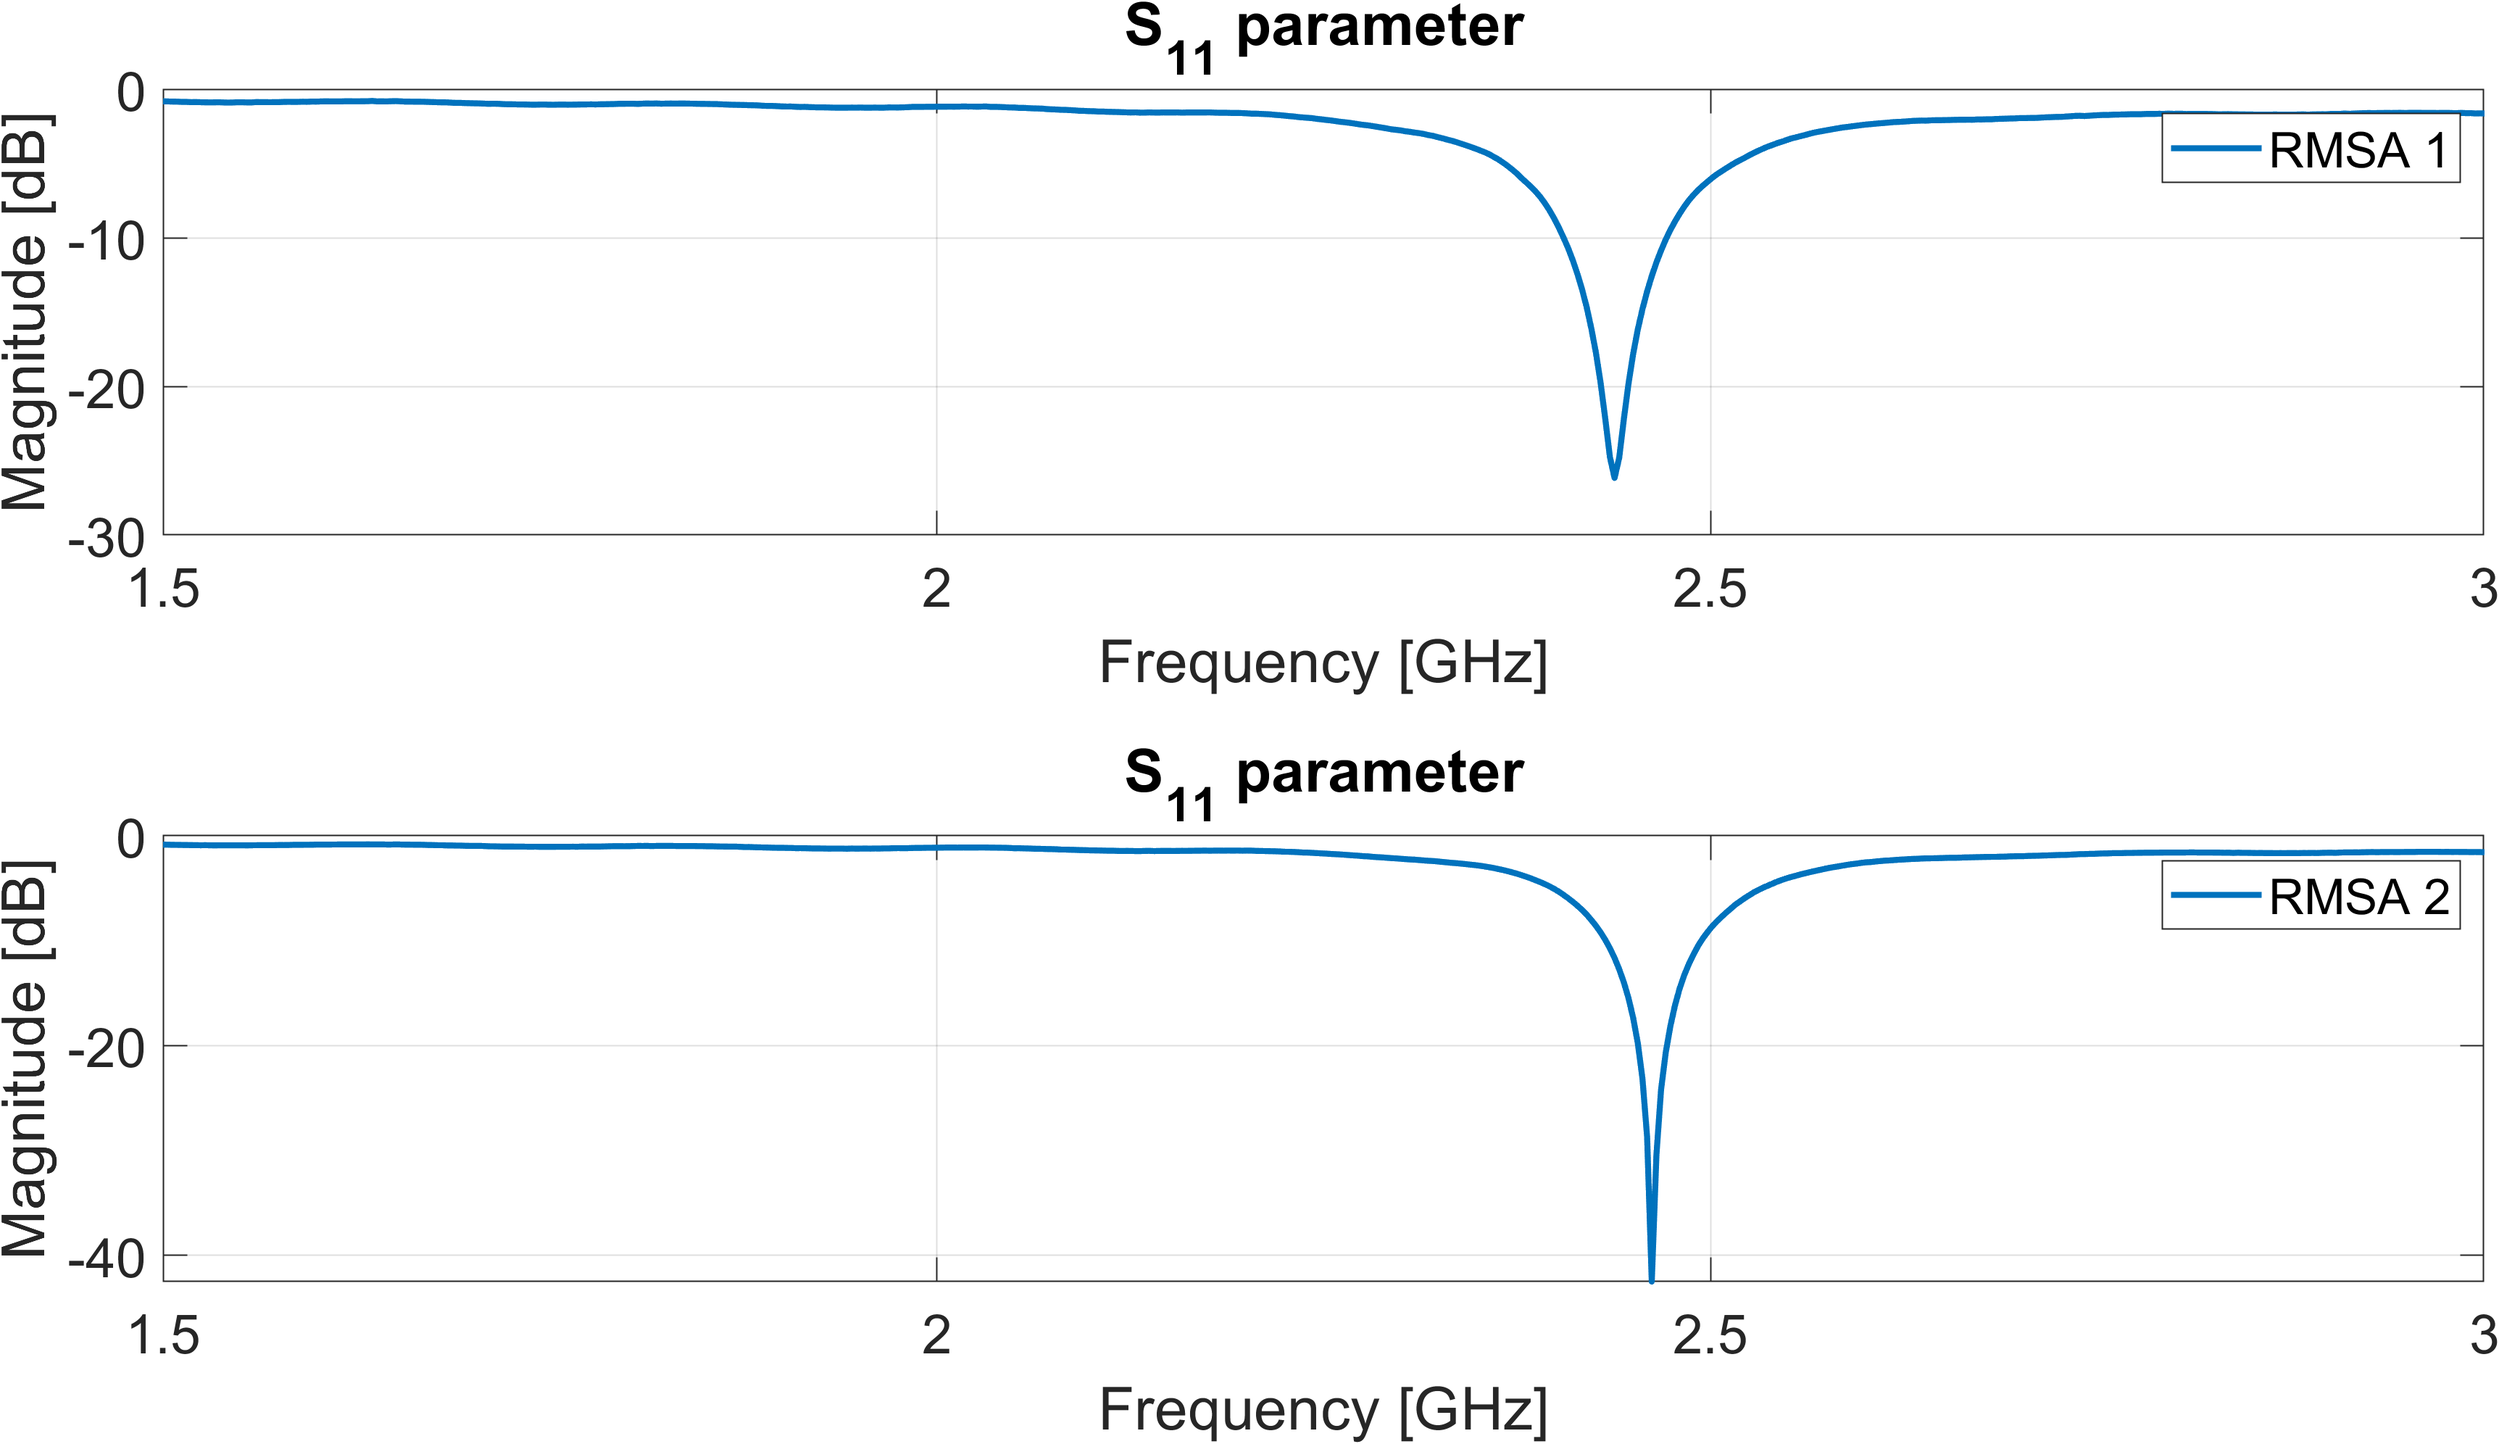
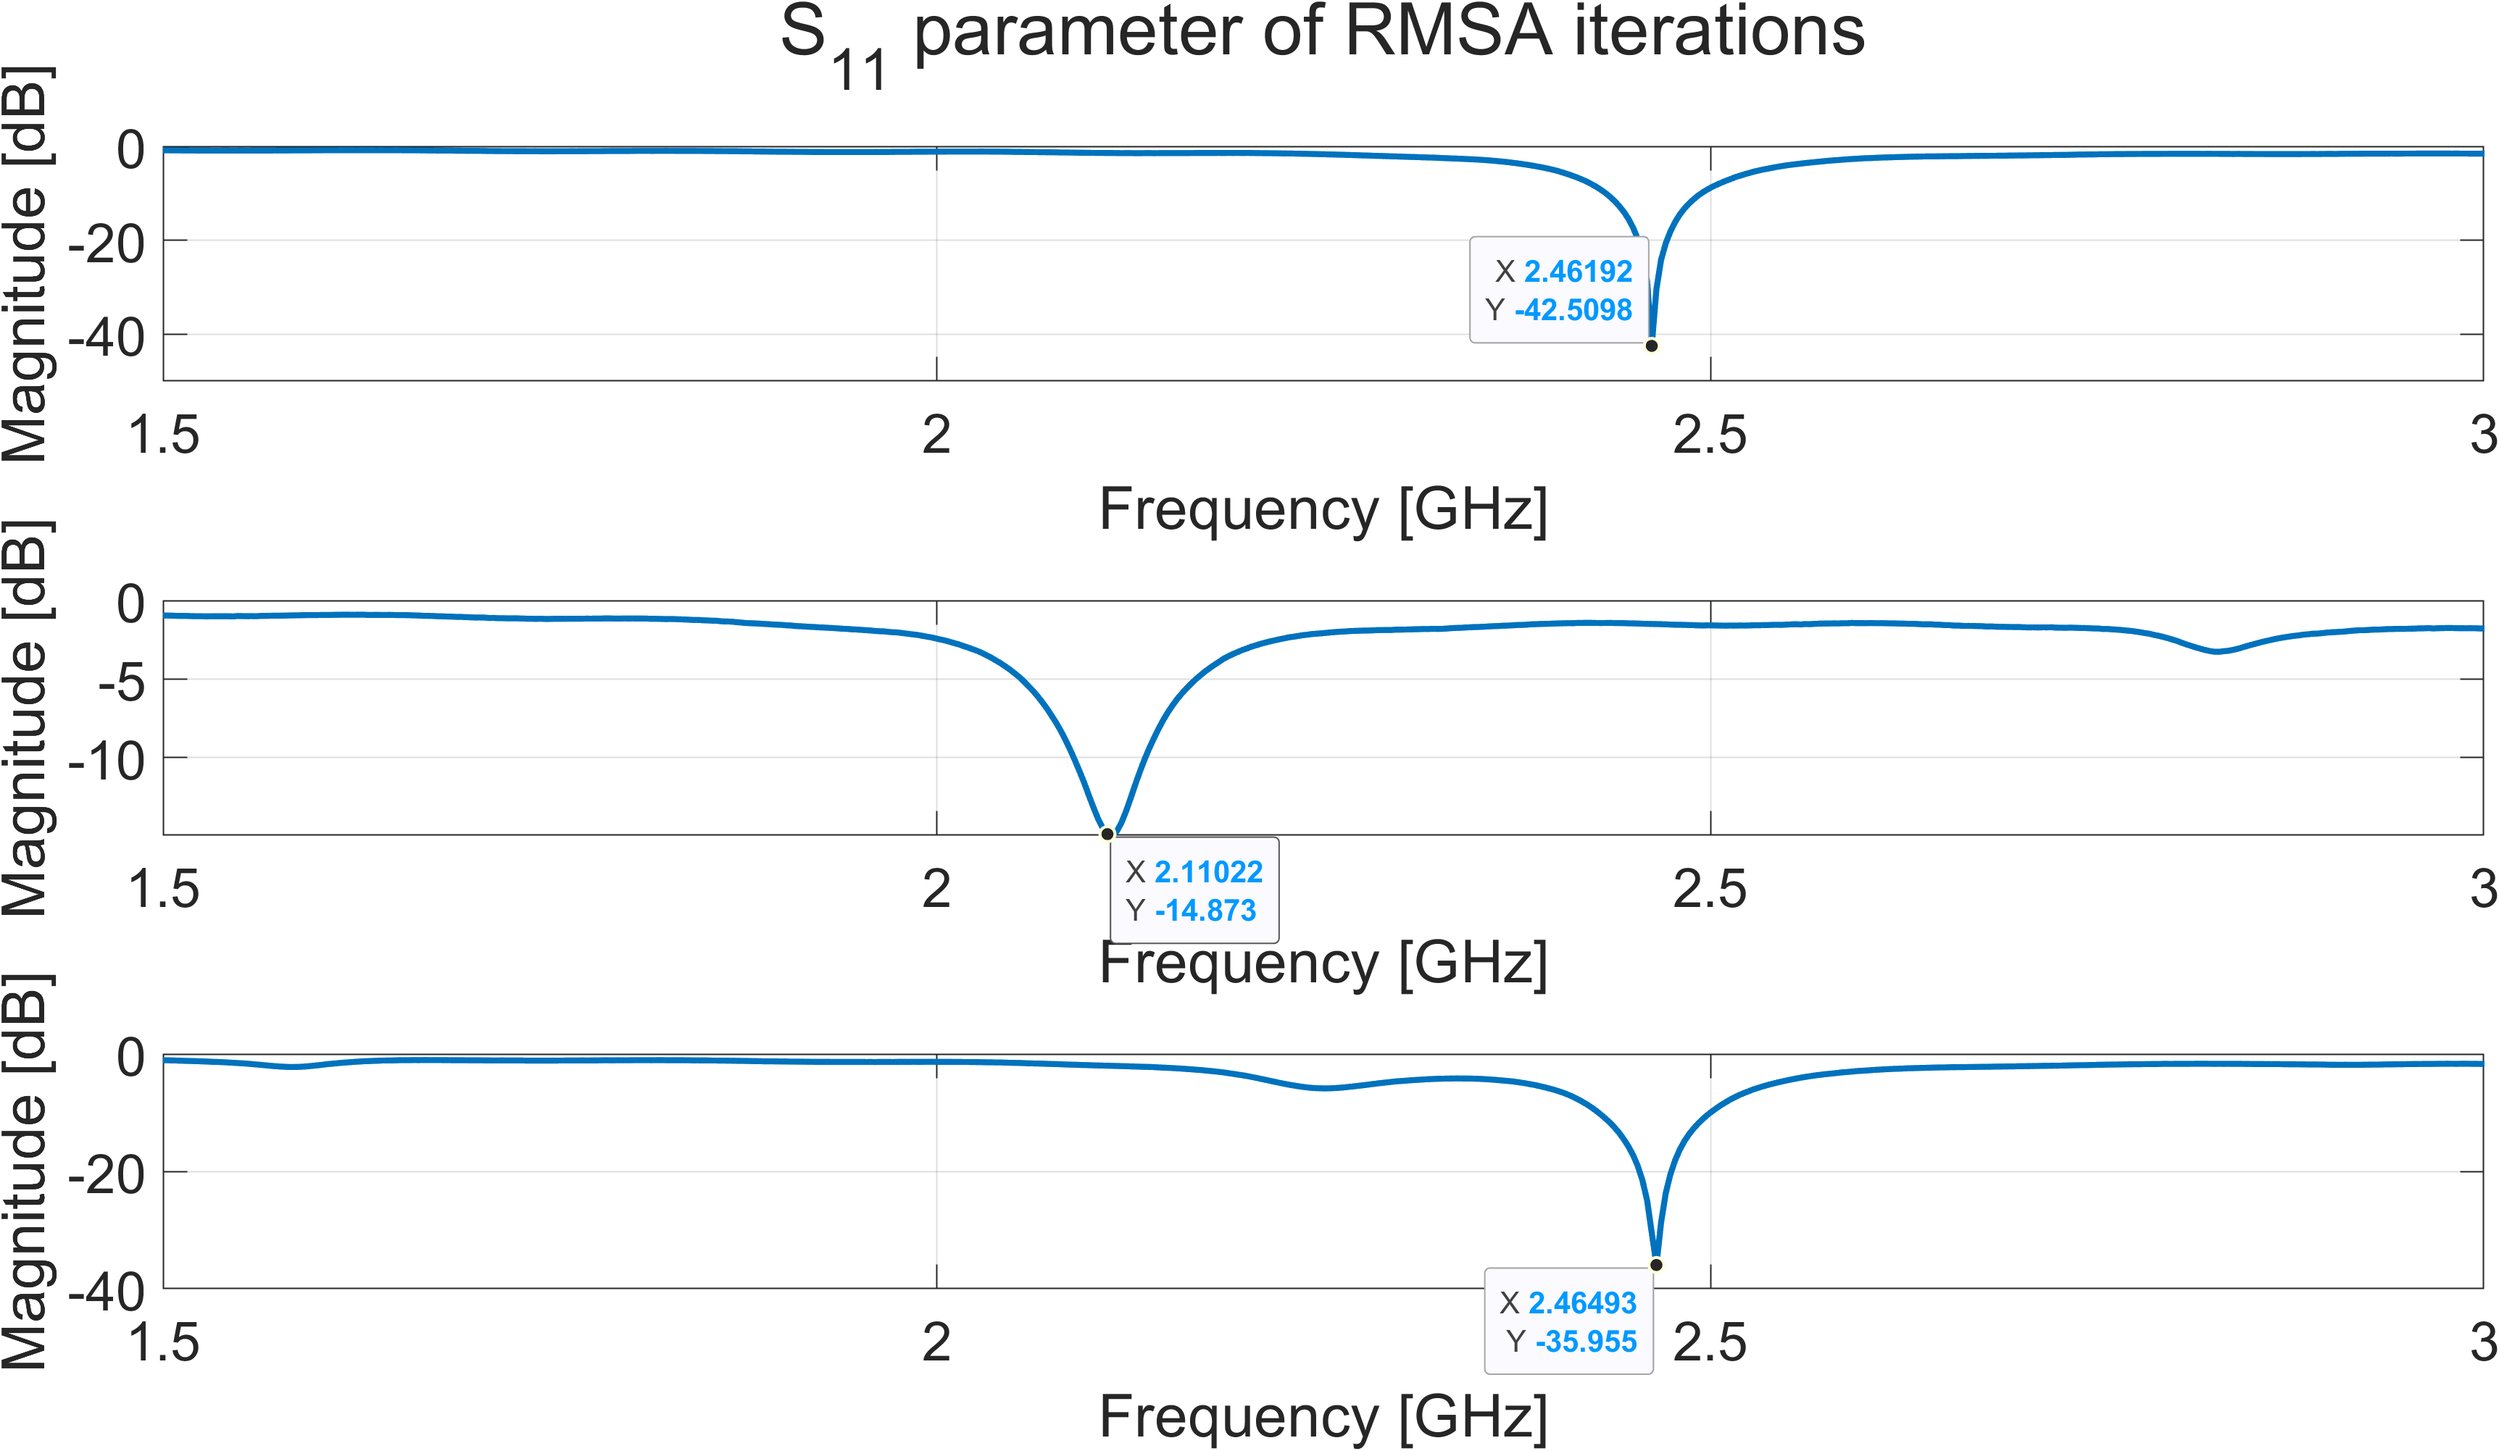
changes to more figures

diff --git a/test_data/antenna_array/s11_smith_swr/antenna_array_s11_swr_plot_script.m b/test_data/antenna_array/s11_smith_swr/antenna_array_s11_swr_plot_script.m
@@ -97,55 +97,32 @@ T4.freq = T4.freq*1e-9;
 FigH = figure('WindowState','fullscreen');
 
 % Create the tiled layout
-t = tiledlayout(2, 1);
-
-% First plot
-nexttile
-p1 = plot(T1.freq, T1.dB);
-p1.LineWidth = 2;
-xlabel('Frequency [GHz]', 'FontSize', 12);
-ylabel('Magnitude [dB]', 'FontSize', 12);
-title('S_{11} parameter');
-set(gca, 'FontSize', 18);
-legend('RMSA 1');
-grid on;
-
+t = tiledlayout(3, 1);
+sgtitle('S_{11} parameter of RMSA iterations','FontSize',24);
 % Second plot
 nexttile
 p2 = plot(T2.freq, T2.dB);
 p2.LineWidth = 2;
 xlabel('Frequency [GHz]', 'FontSize', 12);
 ylabel('Magnitude [dB]', 'FontSize', 12);
-title('S_{11} parameter');
 set(gca, 'FontSize', 18);
-legend('RMSA 2');
 grid on;
 
-% Export the figure
-% exportgraphics(t, 'C:\Users\johba\esd5_project\gitfigures\appendix\antenna_tests\antenna_array_s11_test_initial_1.png', 'Resolution', 300); % 1920x1080 pixels
-
-% Set figure size to 1920x1080 pixels
-FigH = figure('WindowState','fullscreen');
-q = tiledlayout(2,1);
 nexttile
 p3 = plot(T3.freq, T3.dB);
 p3.LineWidth = 2;
 xlabel('Frequency [GHz]','FontSize',12);
 ylabel('Magnitude [dB]','FontSize',12);
-title('S_{11} parameter')
 set(gca,'FontSize',18)
-legend('RMSA 3');
 grid on
 nexttile
 p4 = plot(T4.freq, T4.dB);
 p4.LineWidth = 2;
 xlabel('Frequency [GHz]','FontSize',12);
 ylabel('Magnitude [dB]','FontSize',12);
-title('S_{11} parameter')
 set(gca,'FontSize',18)
-legend('RMSA 4');
 grid on
-% exportgraphics(q, 'C:\Users\johba\esd5_project\gitfigures\appendix\antenna_tests\antenna_array_s11_test_initial_2.png', 'Resolution', 300); % 1920x1080 pixels
+% exportgraphics(t, 'C:\Users\johba\esd5_project\gitfigures\appendix\antenna_tests\antenna_array_s11_test_initial_1.png', 'Resolution', 300); % 1920x1080 pixels
 %% Final rmsa design plotted against measured data
 close all
 clear
@@ -162,7 +139,7 @@ T3.freq = T3.freq*1e-9;
 T4.freq = T4.freq*1e-9;
 
 figH = figure('WindowState','fullscreen');
-sgtitle('S_{11} parameter of measured against simulated RMSA','FontSize',22);
+sgtitle('S_{11} parameter of measured and simulated RMSA','FontSize',22);
 subplot(2,2,1)
 p1 = plot(T1.freq,T1.dB,T5.Var1,T5.Var2,':');
 p1(1).LineWidth = 1.4;
@@ -209,4 +186,4 @@ xlabel('Frequency [GHz]');
 legend('Measured','Simulated','Location','southwest');
 grid on
 
-exportgraphics(figH, 'C:\Users\johba\esd5_project\gitfigures\appendix\antenna_tests\antenna_meas_sim_s11.png', 'Resolution', 300); % 1920x1080 pixels
+% exportgraphics(figH, 'C:\Users\johba\esd5_project\gitfigures\appendix\antenna_tests\antenna_meas_sim_s11.png', 'Resolution', 300); % 1920x1080 pixels
